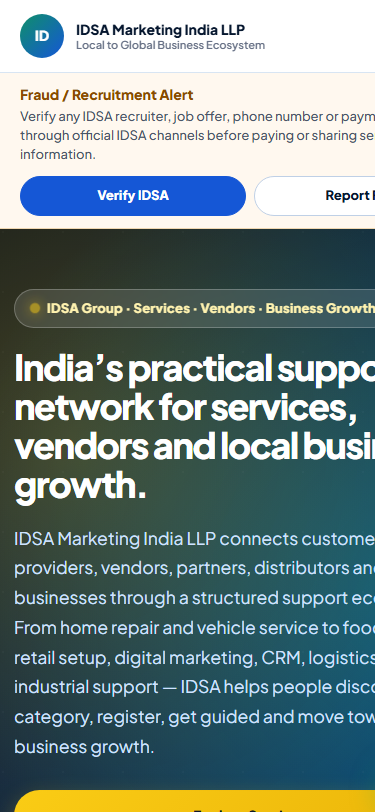
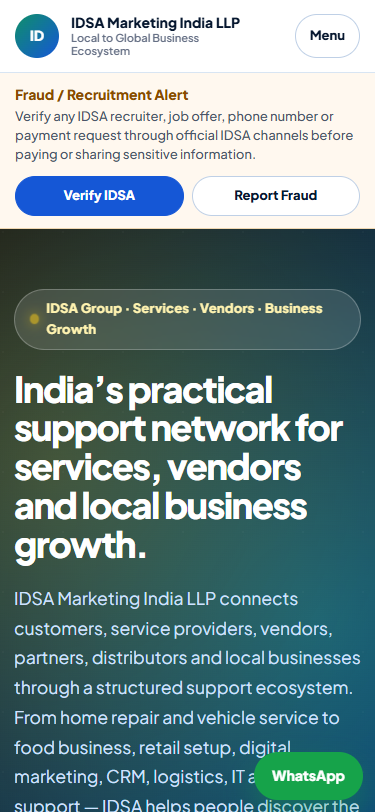
evidence: correct issue 957 captures to exact CSS viewports

diff --git a/issue-957/idsa-marketing-a6b7a58b/README.md b/issue-957/idsa-marketing-a6b7a58b/README.md
@@ -5,11 +5,11 @@ Source ref: `origin/main`
 Source SHA: `a6b7a58b476ce29e05d68149061c0e4c809a3782`
 Audit mode: read-only snapshot; no marketing source files modified.
 
-Representative pages captured from the exact source snapshot using local PHP 8.2.12 + headless Chrome at 375×812 and 1280×900:
+Representative pages captured with PHP 8.2.12 + Puppeteer/Chrome using exact CSS viewports 375×812 and 1280×900:
 - `index.php`
 - `services.php`
 - `ac-repair-service-support.php`
 - `learn2earn-plc-training.php`
 - `login.php`
 
-Observation: 1280px captures render cleanly. The 375px captures show right-edge clipping/overflow in the shared Fraud / Recruitment Alert area and page content on the sampled pages; this is recorded as a responsive visual finding, not fixed in this audit phase.
+Viewport verification for all 5 pages: `innerWidth == documentElement.scrollWidth == body.scrollWidth` at both 375 and 1280. No horizontal-overflow defect was reproduced with the exact Puppeteer viewport. The earlier direct `chrome --window-size=375` capture was rejected as a Windows minimum-window capture artifact and is superseded by these files.
